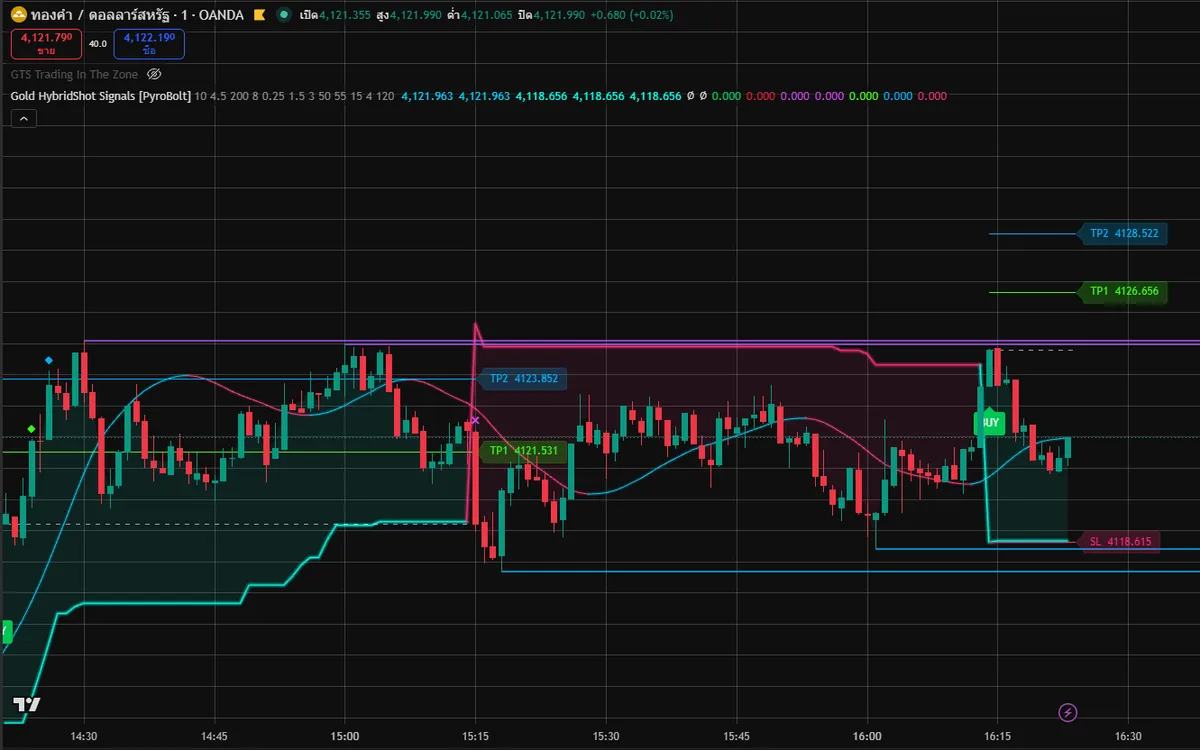
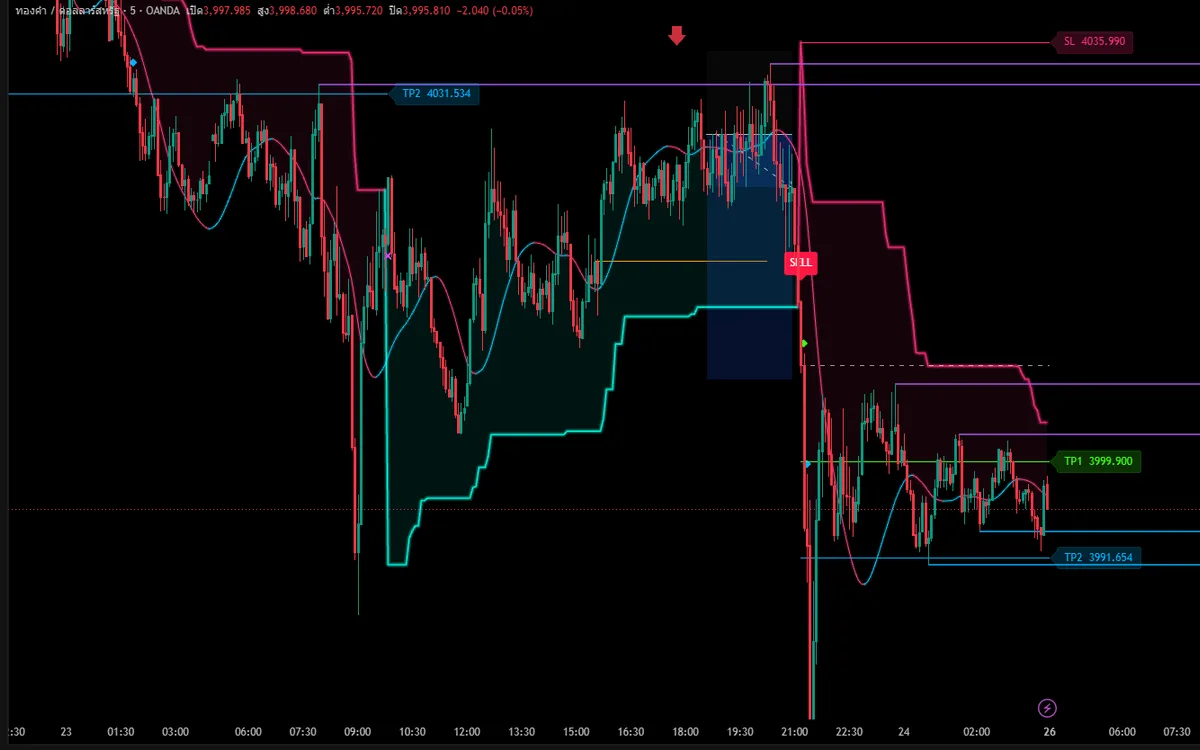
feat(marketing): use the 26 Oct gold chart on both the feature card and the showcase
The showcase section gets the whole screenshot, summary table included,
since that section already explains in its own words that those numbers
are the indicator's own back-calculation on that chart and not members'
results.

The feature card gets the same screenshot with the summary table cropped
away. That card carries no such wording, so a win rate sitting on it
would read as a promise about what buyers will earn.

Both markers and the alt text follow the picture: this signal is a SELL,
not the BUY the old chart showed.

diff --git a/src/config/marketing.ts b/src/config/marketing.ts
@@ -282,15 +282,15 @@ export const INDICATOR_SHOWCASE = {
   title: "หน้าตาอินดิเคเตอร์ บนกราฟจริง",
   description: "ตัวอย่างหน้าจอ Gold Hybridshot บนกราฟทองคำ — สัญญาณ จุดเป้าหมาย และจุดตัดขาดทุนแสดงบนกราฟให้เห็นทันที",
   image: {
-    src: "/images/showcase/xauusd-5m-gold-hybridshot.png",
-    width: 1752,
-    height: 830,
+    src: "/images/showcase/xauusd-5m-gold-hybridshot.webp",
+    width: 1553,
+    height: 918,
     sizes: "(min-width: 1280px) 1200px, 100vw",
-    alt: "ภาพหน้าจอกราฟทองคำ XAUUSD กรอบ 5 นาทีบน TradingView พร้อมอินดิเคเตอร์ Gold Hybridshot: ป้ายสัญญาณ BUY เส้นเป้าหมาย TP1 TP2 เส้นตัดขาดทุน SL เส้นแนวโน้ม และตารางสรุปมุมขวาบน",
+    alt: "ภาพหน้าจอกราฟทองคำ XAUUSD กรอบ 5 นาทีบน TradingView พร้อมอินดิเคเตอร์ Gold Hybridshot: ป้ายสัญญาณ SELL เส้นเป้าหมาย TP1 TP2 เส้นตัดขาดทุน SL เส้นแนวโน้ม และตารางสรุปมุมขวาบน",
   },
-  meta: "XAUUSD (OANDA) · กรอบ 5 นาที · บันทึกภาพ 13 ต.ค. 2569",
+  meta: "XAUUSD (OANDA) · กรอบ 5 นาที · บันทึกภาพ 26 ต.ค. 2569",
   legend: [
-    { title: "ป้ายสัญญาณ BUY", description: "ป้ายบนแท่งเทียนบอกจุดที่อินดิเคเตอร์ให้สัญญาณเข้าซื้อ" },
+    { title: "ป้ายสัญญาณ SELL", description: "ป้ายบนแท่งเทียนบอกจุดที่อินดิเคเตอร์ให้สัญญาณเข้าขาย" },
     { title: "เส้น TP1 · TP2 · SL", description: "เส้นเป้าหมายทำกำไรและจุดตัดขาดทุนที่อินดิเคเตอร์วาดให้บนกราฟ" },
     { title: "เส้นแนวโน้มและโซนสี", description: "เส้นและแถบสีช่วยดูทิศทางราคาและโซนที่ราคาเคลื่อนไหว" },
     { title: "ตารางสรุปมุมขวาบน", description: "สรุปแนวโน้ม สถานะสัญญาณล่าสุด และสถิติย้อนหลังของสัญญาณบนกราฟนั้น" },

diff --git a/src/components/marketing/feature-art.tsx b/src/components/marketing/feature-art.tsx
@@ -16,7 +16,7 @@ type PhotoEffect = "chart" | "chat" | "channels";
 const FEATURE_PHOTOS: Record<string, { src: string; alt: string; effect: PhotoEffect; backdrop: string }> = {
   indicator: {
     src: "/images/features/indicator-chart.webp",
-    alt: "กราฟทองคำ 1 นาทีบน TradingView ที่เปิดอินดิเคเตอร์ Gold HybridShot Signals แสดงจุด BUY พร้อมเส้น TP1, TP2 และ SL",
+    alt: "กราฟทองคำ 5 นาทีบน TradingView ที่เปิดอินดิเคเตอร์ Gold HybridShot Signals แสดงจุด SELL พร้อมเส้น TP1, TP2 และ SL",
     effect: "chart",
     backdrop: "bg-[#0f0f0f]",
   },
@@ -34,12 +34,12 @@ const FEATURE_PHOTOS: Record<string, { src: string; alt: string; effect: PhotoEf
   },
 };
 
-/** ตำแหน่งป้าย BUY, TP1, TP2, SL ในภาพกราฟ (% ของภาพ 1200×750) — กระพริบตามลำดับนี้ */
+/** ตำแหน่งป้าย SELL, TP1, TP2, SL ในภาพกราฟ (% ของภาพ 1200×750) — กระพริบตามลำดับนี้ */
 const CHART_MARKERS = [
-  { x: 82.3, y: 56.3 },
-  { x: 93.7, y: 38.8 },
-  { x: 93.4, y: 31.1 },
-  { x: 93.3, y: 72.1 },
+  { x: 66.7, y: 34.9 },
+  { x: 91.6, y: 61.5 },
+  { x: 91.6, y: 74.3 },
+  { x: 91.1, y: 5.5 },
 ];
 
 function markerStyle(index: number, x: number, y: number): CSSProperties {

diff --git a/tests/indicator-showcase.test.tsx b/tests/indicator-showcase.test.tsx
@@ -10,10 +10,12 @@ describe("Real indicator screenshot section", () => {
   const { image } = INDICATOR_SHOWCASE;
 
   it("ships a real screenshot whose file matches the declared size (no layout shift, correct next/image ratio)", () => {
-    const png = readFileSync(join(process.cwd(), "public", image.src));
-    expect(png.subarray(1, 4).toString()).toBe("PNG");
-    expect(png.readUInt32BE(16)).toBe(image.width);
-    expect(png.readUInt32BE(20)).toBe(image.height);
+    // WebP แบบ lossy (RIFF/VP8): ขนาดอยู่ที่ไบต์ 26–29 ฝั่งละ 14 บิต
+    const file = readFileSync(join(process.cwd(), "public", image.src));
+    expect(file.subarray(0, 4).toString()).toBe("RIFF");
+    expect(file.subarray(8, 16).toString()).toBe("WEBPVP8 ");
+    expect(file.readUInt16LE(26) & 0x3fff).toBe(image.width);
+    expect(file.readUInt16LE(28) & 0x3fff).toBe(image.height);
   });
 
   it("renders the screenshot through next/image with sizes and a descriptive Thai alt text", () => {
